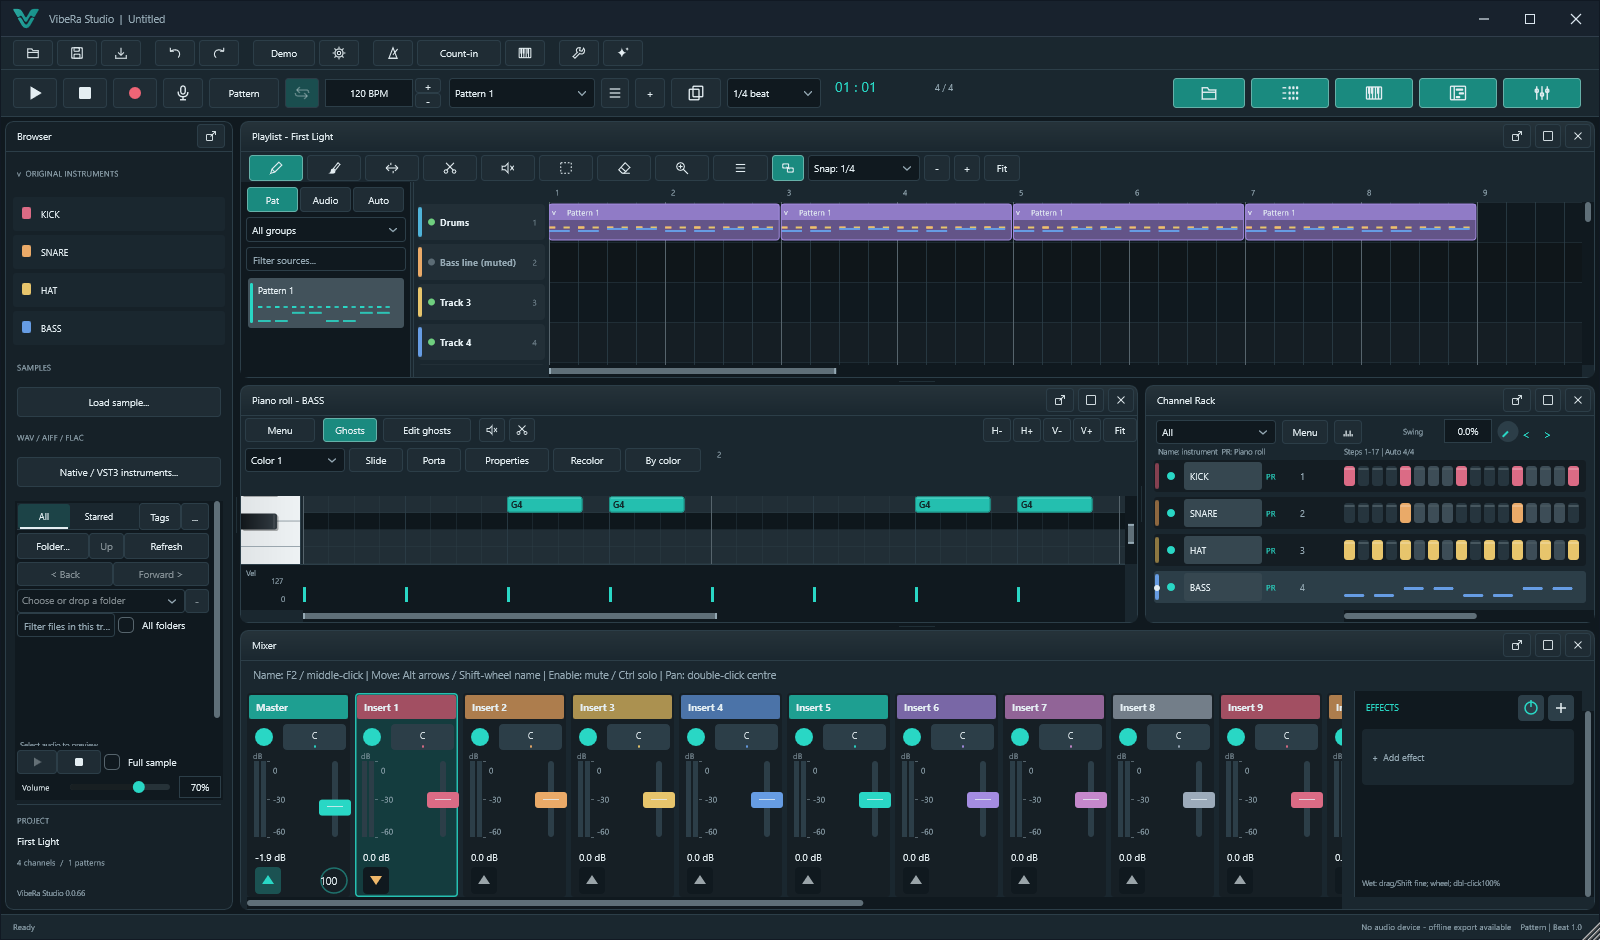
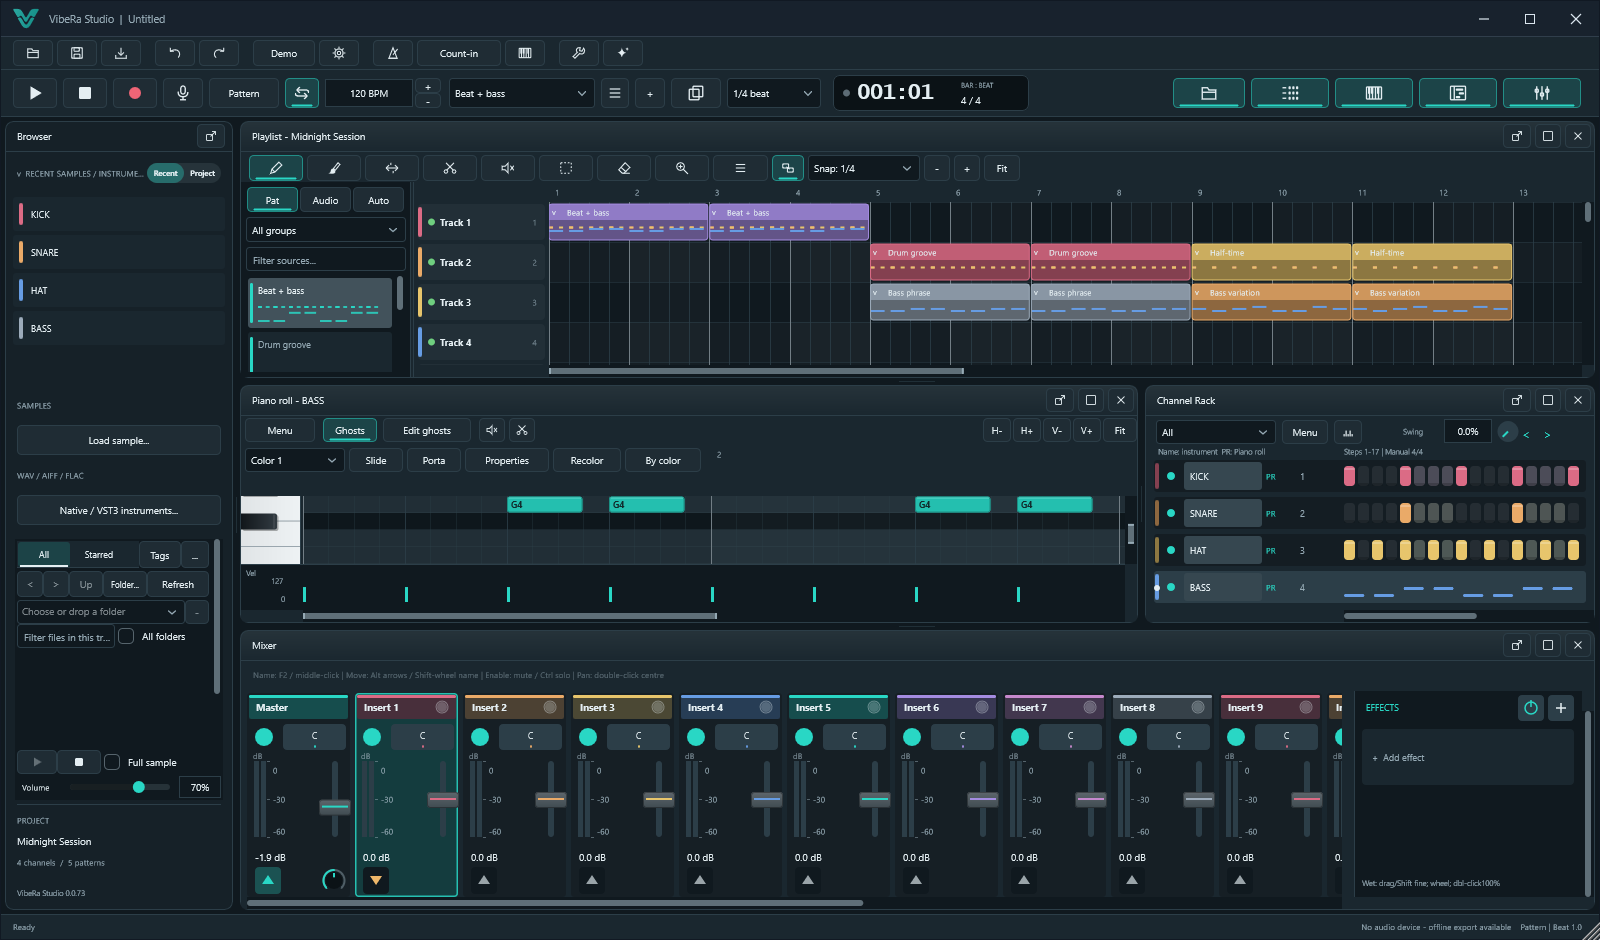
Website: what's new, sampler section and current screenshots
- New "What's new" section with dated entries (3 and 4 November 2026).
- Feature cards follow the current app: instrument/audio tracks, Pattern
  automation, 33 built-in effects, wavetable synth, MIDI overdub and step
  recording, autosave/backups/crash recovery, .flp and MIDI opening.
- New sampler channel section with a capture of the Envelope page.
- Fresh workspace capture from the current build (Midnight Session example).
- Roadmap: tempo warping/curves and MPE/MTS-ESP moved to Now; Linux and
  macOS builds listed as in progress.

diff --git a/website/index.html b/website/index.html
@@ -20,6 +20,7 @@
   <a class="brand" href="#top"><img src="img/icon.png" alt=""><span>VibeRa Studio</span></a>
   <nav>
     <a href="#features">Features</a>
+    <a href="#new">What's new</a>
     <a href="#microtonal">Maqam</a>
     <a href="#download">Download</a>
     <a href="#roadmap">Roadmap</a>
@@ -83,21 +84,25 @@
     <article class="card"><div class="ico">&#9638;</div><h3>Compose</h3>
       <p>Step sequencer and Piano Roll with slides, portamento, chords, arpeggios, strumming, humanize and scale snapping.</p></article>
     <article class="card"><div class="ico">&#9776;</div><h3>Arrange</h3>
-      <p>Playlist with coloured tracks, mute and solo, collapsible groups, markers, multiple arrangements, tempo and time-signature changes.</p></article>
+      <p>Playlist with coloured tracks, instrument and audio tracks, track lock and height, markers, multiple arrangements, tempo curves and time-signature changes.</p></article>
     <article class="card"><div class="ico">&#9881;</div><h3>VibeRa Synth</h3>
-      <p>An original instrument with 77 presets, from synthesized basses to recorded pianos, strings, brass and guitars.</p></article>
+      <p>An original instrument with more than 75 presets, wavetable oscillators and 16-voice unison, from synthesized basses to recorded pianos, strings, brass and guitars.</p></article>
     <article class="card"><div class="ico">&#9673;</div><h3>Sampler</h3>
-      <p>Envelopes, filters, LFOs, pitch bend, time stretching, loops and automatic slicing to Channels.</p></article>
+      <p>A three-page channel window with envelopes, LFOs, filter, time stretching, loops and precomputed effects, plus Drum Pads and automatic slicing to Channels.</p></article>
     <article class="card"><div class="ico">&#9711;</div><h3>Record</h3>
-      <p>Audio recording with loop takes, comping, punch-in, several inputs at once and crash-safe takes. MIDI recording too.</p></article>
+      <p>Audio recording with loop takes, comping, punch-in and several inputs at once. MIDI overdub or replace, step recording and automation recording.</p></article>
     <article class="card"><div class="ico">&#9636;</div><h3>Mix</h3>
-      <p>Full Mixer with routing, sends, sidechains, automation, latency compensation and 25 built-in effects.</p></article>
+      <p>Full Mixer with routing, sends, sidechains, automation, latency compensation and 33 built-in effects, from a studio reverb and multiband to a maximizer and spectrum analyzer.</p></article>
     <article class="card"><div class="ico">&#9883;</div><h3>VST3 plugins</h3>
       <p>Instruments and effects run in a protected process, so a crashing plugin cannot take your session down.</p></article>
     <article class="card"><div class="ico">&#9654;</div><h3>Perform live</h3>
       <p>Launch Patterns from pads or a MIDI controller, with launch quantum and scenes.</p></article>
     <article class="card"><div class="ico">&#8681;</div><h3>Export</h3>
-      <p>WAV, FLAC, OGG and MP3 at 44.1 or 48 kHz, 16, 24 or 32-bit, or one file per Mixer insert.</p></article>
+      <p>WAV, FLAC, OGG and MP3 at 44.1 or 48 kHz, 16, 24 or 32-bit, or one file per Mixer insert, with effect latency lined up from the first sample.</p></article>
+    <article class="card"><div class="ico">&#10003;</div><h3>Never lose work</h3>
+      <p>Autosave every two minutes, five rotating backups of every save, and recovery after a crash.</p></article>
+    <article class="card"><div class="ico">&#8635;</div><h3>Bring your projects</h3>
+      <p>Open .flp project files and MIDI files, and drag samples straight from the Browser.</p></article>
   </div>
 </section>
 
@@ -106,6 +111,22 @@
   <h2 class="section-title">A studio that feels like home</h2>
   <p class="section-sub">Dark, focused and fast. Choose your colours and font, or switch to high contrast.</p>
   <figure class="frame"><img src="img/screenshot.png" alt="VibeRa Studio workspace with Playlist, Piano Roll, Channel Rack and Mixer" loading="lazy"></figure>
+</section>
+
+<!-- SAMPLER -->
+<section class="section split">
+  <figure class="frame"><img src="img/sampler.png" alt="VibeRa sampler channel window with envelope, LFO, filter and keyboard" loading="lazy"></figure>
+  <div>
+    <h2 class="section-title left">A sampler channel that feels familiar</h2>
+    <p>Every sample Channel opens a compact window with three pages: the sample itself, its envelopes
+      and LFOs, and everything else. Knobs, not endless sliders.</p>
+    <ul class="ticks">
+      <li>Sample page: trim, loop points, fades, stretch to the tempo</li>
+      <li>Envelope page: Panning, Volume, Mod X, Mod Y and Pitch envelopes and LFOs</li>
+      <li>Filter, polyphony, glide, gate and cut groups</li>
+      <li>Root note keyboard to audition and retune</li>
+    </ul>
+  </div>
 </section>
 
 <!-- MICROTONAL -->
@@ -120,6 +141,7 @@
       <li>Snap to maqam with real quarter tones</li>
       <li>Scala (<code>.scl</code>) scales of any size</li>
       <li>Pitch-correction effect with maqam targets</li>
+      <li>MPE and MTS-ESP tuning for plugin instruments</li>
     </ul>
   </div>
   <div class="keys" id="keys" aria-hidden="true"></div>
@@ -133,14 +155,43 @@
   <p class="muted center">Prefer to build it yourself? See the <a href="https://github.com/Sheekovic/VibeRa-Studio#getting-started">build guide</a>.</p>
 </section>
 
+<!-- WHAT'S NEW -->
+<section id="new" class="section">
+  <h2 class="section-title">What's new</h2>
+  <p class="section-sub">VibeRa grows every week. Here is what landed recently.</p>
+  <div class="news">
+    <article class="news-item"><time datetime="2026-11-04">4 November 2026</time>
+      <ul>
+        <li>New sampler channel window with Sample, Envelope and Misc pages</li>
+        <li>Instrument tracks and audio tracks in the Playlist</li>
+        <li>Pattern automation: record knob moves inside a Pattern and they play wherever it is placed</li>
+        <li>Autosave, rotating backups and crash recovery</li>
+        <li>Fit audio clips to the project tempo without adding a new sample</li>
+        <li>Browser view of everything in the current project</li>
+        <li>Mixer send knobs and sharper exports with latent effects</li>
+      </ul>
+    </article>
+    <article class="news-item"><time datetime="2026-11-03">3 November 2026</time>
+      <ul>
+        <li>Studio Reverb, multiband, maximizer, de-esser, transient shaper and spectrum analyzer</li>
+        <li>Wavetable oscillators with 16-voice unison in VibeRa Synth</li>
+        <li>Drum Pads and a chord progression tool</li>
+        <li>Audio clips that follow tempo changes, and shaped tempo curves</li>
+        <li>MPE and MTS-ESP microtuning for plugin instruments</li>
+        <li>Open .flp project files</li>
+      </ul>
+    </article>
+  </div>
+</section>
+
 <!-- ROADMAP -->
 <section id="roadmap" class="section">
   <h2 class="section-title">Where we are going</h2>
   <p class="section-sub">The goal: a complete, professional studio that belongs to everyone.</p>
   <div class="timeline">
-    <div class="step done"><b>Now</b><span>Pattern workflow, Piano Roll, Playlist, Mixer, VST3, audio and MIDI recording, VibeRa Synth, maqam tuning</span></div>
-    <div class="step next"><b>Next</b><span>Warping audio to tempo, tempo curves, MPE / MTS-ESP microtuning for plugins</span></div>
-    <div class="step later"><b>Later</b><span>More original instruments and effects, deeper real-world hardware and accessibility testing</span></div>
+    <div class="step done"><b>Now</b><span>Pattern workflow, Piano Roll, Playlist, Mixer, VST3, audio and MIDI recording, VibeRa Synth, maqam tuning, tempo warping and curves, MPE / MTS-ESP</span></div>
+    <div class="step next"><b>Next</b><span>Linux and macOS builds (in progress), more polish on familiar workflows, more original instruments</span></div>
+    <div class="step later"><b>Later</b><span>More original effects and sounds, deeper real-world hardware and accessibility testing</span></div>
   </div>
 </section>
 

diff --git a/website/style.css b/website/style.css
@@ -181,6 +181,13 @@ h1 { font-size: clamp(40px, 6vw, 72px); line-height: 1.02; margin: 0 0 22px; let
 
 .contribute { padding-bottom: 20px; }
 
+/* What's new */
+.news { display: grid; grid-template-columns: repeat(auto-fit, minmax(300px, 1fr)); gap: 16px; max-width: 1000px; margin: 0 auto; }
+.news-item { background: var(--panel); border: 1px solid rgba(66, 90, 104, .5); border-radius: var(--radius); padding: 22px 24px; }
+.news-item:first-child { border-color: rgba(41, 215, 197, .55); }
+.news-item time { display: block; font-weight: 700; font-size: 18px; color: var(--accent); margin-bottom: 10px; }
+.news-item ul { margin: 0; padding-left: 18px; display: grid; gap: 6px; color: #c4d3da; }
+
 footer { margin-top: 100px; padding: 36px clamp(16px, 4vw, 48px); border-top: 1px solid rgba(44, 62, 72, .6); text-align: center; color: var(--ink); }
 footer img { width: 20px; height: 20px; display: inline-block; vertical-align: -4px; margin-right: 6px; }
 
